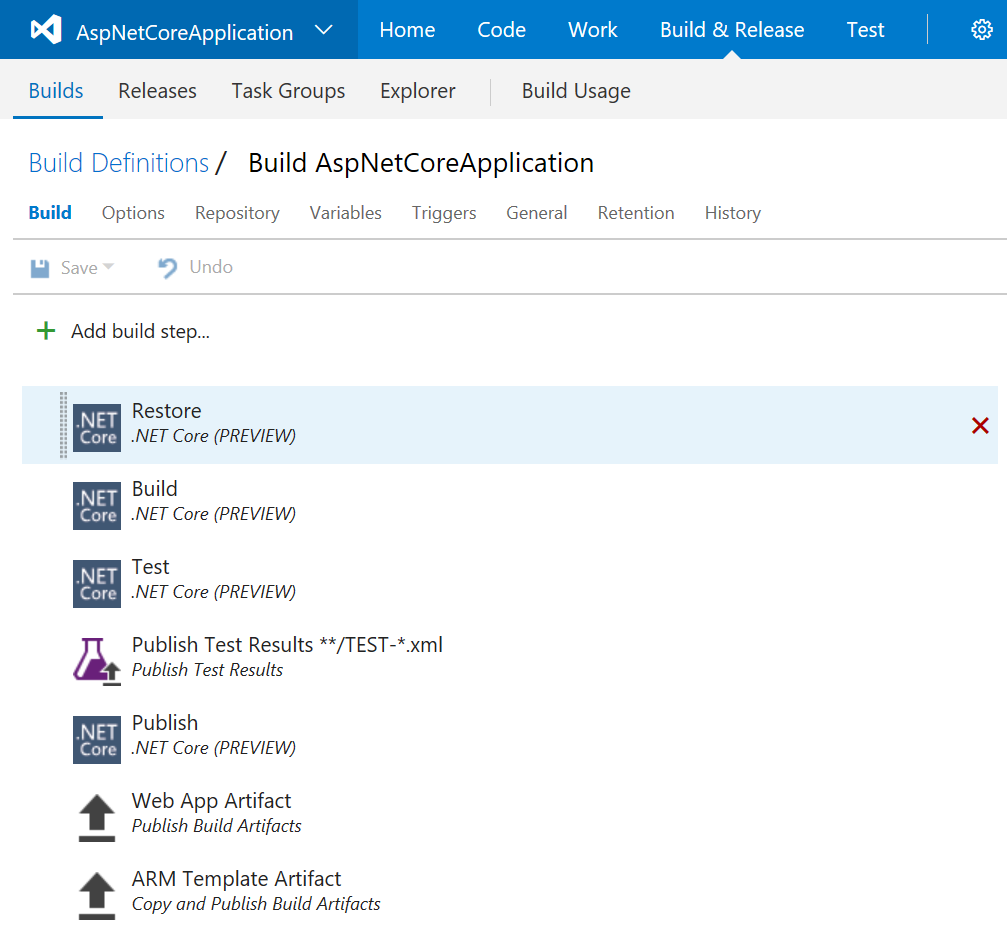
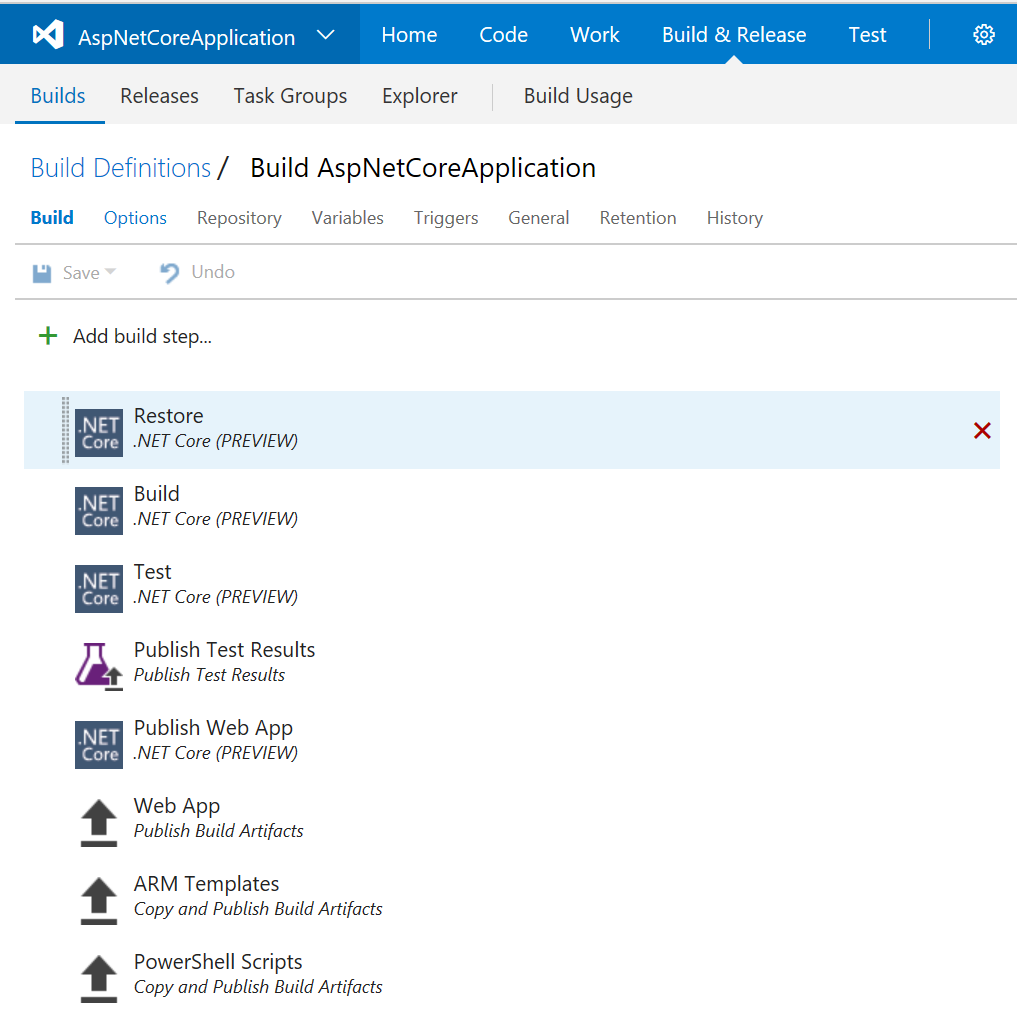
Fix unfound type for test in production script + improve doc.

Changed region(s): [[0.0, 0.0, 1.0, 0.982]]

diff --git a/docs/Release.md b/docs/Release.md
@@ -1,11 +1,83 @@
+Here is one example to Release this Web App via VSTS. You could adapt it with your own context, needs and constraints.
+
 #Staging Environment
 ![Staging Release Overview](/docs/StagingRelease.PNG)
 
+##Deployment options
+- Trigger = After release creation
+
+##Approvals
+- Pre-deployment approver = Automatic
+- Post-deployment approver = Automatic
+
 ##Variables
-- TODO
+- AdministratorLogin = set appropriate
+- AdministratorLoginPassword = set appropriate
+- ResourceGroupName = set appropriate
+- SlotName = staging
+- Location = East US
 
 ##Steps 
-- TODO
+- (Ensure) App Service Plan
+  - Type = Azure Resource Group Deployment
+  - Azure Connection Type = Azure Resource Manager
+  - Azure RM Subscription = set appropriate
+  - Action = Create Or Update Resource Group
+  - Resource Group = $(ResourceGroupName)
+  - Location = $(Location)
+  - Template = $(System.DefaultWorkingDirectory)/Build AspNetCoreApplication/arm-templates/[AppServicePlan.json](../release/ManageAzureWebAppAzureResourceGroup/templates/AppServicePlan.json)
+  - Override Template Parameters = -appServicePlanName $(ResourceGroupName)
+  - Deployment Mode = Incremental
+- (Ensure) Web App
+  - Type = Azure Resource Group Deployment
+  - Azure Connection Type = Azure Resource Manager
+  - Azure RM Subscription = set appropriate
+  - Action = Create Or Update Resource Group
+  - Resource Group = $(ResourceGroupName)
+  - Location = $(Location)
+  - Template = $(System.DefaultWorkingDirectory)/Build AspNetCoreApplication/arm-templates/[WebApp.json](../release/ManageAzureWebAppAzureResourceGroup/templates/WebApp.json)
+  - Override Template Parameters = -webAppName $(ResourceGroupName) -appServicePlanName $(ResourceGroupName)
+  - Deployment Mode = Incremental
+- Slot
+  - Type = Azure Resource Group Deployment
+  - Azure Connection Type = Azure Resource Manager
+  - Azure RM Subscription = set appropriate
+  - Action = Create Or Update Resource Group
+  - Resource Group = $(ResourceGroupName)
+  - Location = $(Location)
+  - Template = $(System.DefaultWorkingDirectory)/Build AspNetCoreApplication/arm-templates/[WebAppSlot.json](../release/ManageAzureWebAppAzureResourceGroup/templates/WebAppSlot.json)
+  - Override Template Parameters = -webAppName $(ResourceGroupName) -slotName $(SlotName)
+  - Deployment Mode = Incremental
+- App Insights
+  - Type = Azure Resource Group Deployment
+  - Azure Connection Type = Azure Resource Manager
+  - Azure RM Subscription = set appropriate
+  - Action = Create Or Update Resource Group
+  - Resource Group = $(ResourceGroupName)
+  - Location = $(Location)
+  - Template = $(System.DefaultWorkingDirectory)/Build AspNetCoreApplication/arm-templates/[ApplicationInsights.json](../release/ManageAzureWebAppAzureResourceGroup/templates/ApplicationInsights.json)
+  - Override Template Parameters = -appInsightsName $(ResourceGroupName)-$(SlotName)
+  - Deployment Mode = Incremental
+- Sql Database
+  - Type = Azure Resource Group Deployment
+  - Azure Connection Type = Azure Resource Manager
+  - Azure RM Subscription = set appropriate
+  - Action = Create Or Update Resource Group
+  - Resource Group = $(ResourceGroupName)
+  - Location = $(Location)
+  - Template = $(System.DefaultWorkingDirectory)/Build AspNetCoreApplication/arm-templates/[SqlDatabase.json](../release/ManageAzureWebAppAzureResourceGroup/templates/SqlDatabase.json)
+  - Override Template Parameters = -databaseName $(ResourceGroupName)-$(SlotName) -adminLogin $(AdministratorLogin) -adminLoginPassword (ConvertTo-SecureString -String '$(AdministratorLoginPassword)' -AsPlainText -Force)
+  - Deployment Mode = Incremental
+- Slot App Settings
+  - Type = Azure Resource Group Deployment
+  - Azure Connection Type = Azure Resource Manager
+  - Azure RM Subscription = set appropriate
+  - Action = Create Or Update Resource Group
+  - Resource Group = $(ResourceGroupName)
+  - Location = $(Location)
+  - Template = $(System.DefaultWorkingDirectory)/Build AspNetCoreApplication/arm-templates/[WebAppSlotSettings.json](../release/ManageAzureWebAppAzureResourceGroup/templates/WebAppSlotSettings.json)
+  - Override Template Parameters = -webAppName $(ResourceGroupName) -slotName $(SlotName) -adminLogin $(AdministratorLogin) -adminLoginPassword (ConvertTo-SecureString -String '$(AdministratorLoginPassword)' -AsPlainText -Force)
+  - Deployment Mode = Incremental
 
 #Preview Environment
 ![Preview Release Overview](/docs/PreviewRelease.PNG)
@@ -25,8 +97,8 @@
 ##Steps 
 - TODO
 
-#Delete QA Environment
-![Delete QA Release Overview](/docs/DeleteQARelease.PNG)
+#Delete Environment
+![Delete Overview](/docs/DeleteRelease.PNG)
 
 ##Variables
 - TODO

diff --git a/docs/Build.md b/docs/Build.md
@@ -1,4 +1,4 @@
-Here is one example to build this Web App via VSTS.
+Here is one example to Build this Web App via VSTS. You could adapt it with your own context, needs and constraints.
 
 ![Build Overview](/docs/Build.PNG)
 
@@ -6,32 +6,54 @@ Here is one example to build this Web App via VSTS.
 - BuildConfiguration = release
 - DOTNET_SKIP_FIRST_TIME_EXPERIENCE = true
 
+#Repository
+- Repository Type = GitHub
+- Connection = set appropriate
+- Repository = mathieu-benoit/asp-dot-net-core-on-azure-web-app
+- Default branch = master
+
+#Triggers
+- Continuous Integration (CI) = true
+
 #Steps 
-- .NET Core (Preview)
+- Restore
+  - Type = .NET Core (Preview)
   - Command = restore
   - Project(s) = **/project.json
-- .NET Core (Preview)
+- Build
+  - Type = .NET Core (Preview)
   - Command = build
   - Project(s) = **/project.json
   - Arguments = --configuration $(BuildConfiguration)
-- .NET Core (Preview)
+- Test
+  - Type = .NET Core (Preview)
   - Command = test
   - Project(s) = **/*UnitTests/project.json
   - Arguments = --configuration $(BuildConfiguration) -xml TEST-TestResults.xml
 - Publish Test Results
+  - Type = Publish Test Results
   - Test Result Format = XUnit
   - Test Results Files = **/TEST-*.xml
-- .NET Core (Preview)
+- Publish Web App
+  - Type = .NET Core (Preview)
   - Command = publish
   - Publish Web Projects = true
   - Arguments = --configuration $(BuildConfiguration) --output $(build.artifactstagingdirectory)
   - Zip Published Projects = true
-- Publish Build Artifacts
+- Web App
+  - Type = Publish Build Artifacts
   - Path to publish = $(build.artifactstagingdirectory)
-  - Artifact Name = drop-web-app
+  - Artifact Name = web-app
   - Artifact Type = Server
-- Copy and Publish Build Artifacts
-  - Copy Root = release/ManageAzureWebAppAzureResourceGroup
+- ARM Templates
+  - Type = Copy and Publish Build Artifacts
+  - Copy Root = release/ManageAzureWebAppAzureResourceGroup/templates
   - Contents = *.json
-  - Artifact Name = drop-web-app
+  - Artifact Name = arm-templates
+  - Artifact Type = Server
+- PowerShell Scripts
+  - Type = Copy and Publish Build Artifacts
+  - Copy Root = release/ManageAzureWebAppAzureResourceGroup/scripts
+  - Contents = *.ps1
+  - Artifact Name = scripts
   - Artifact Type = Server

diff --git a/README.md b/README.md
@@ -22,4 +22,6 @@ The commit of these changes will trigger automatically the Build (CI) and then t
 [Here is the associated documentation.](/docs/Release.md)
 
 #Further steps:
+- Update to ASP.NET Core 1.1. Waiting for its [support in the default VSTS Build agent](https://www.visualstudio.com/en-us/docs/build/admin/agents/hosted-pool).
+- Deploy the application on Web App on Linux.
 - Use Azure Key Vault to store secrets
